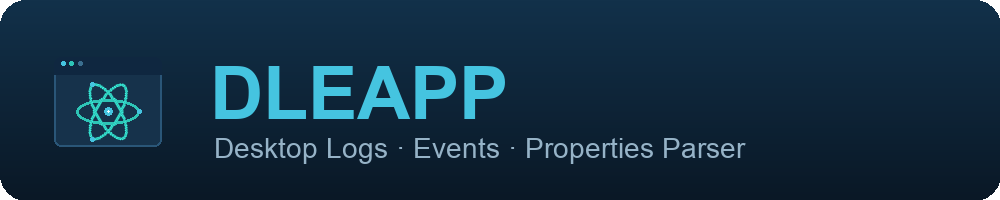
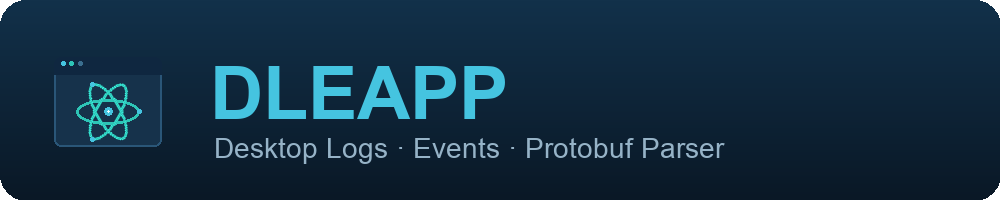
Fix name: Protobuf (not Properties) in the DLEAPP acronym
- DLEAPP = Desktop Logs Events And Protobuf Parser (matches RLEAPP's P word).
- Corrected dleapp.py, README, and scripts/report.py credits heading (the
  latter still read 'Returns ... Properties').
- Regenerated report banner tagline (Protobuf).
- Added admin/scripts/generate_logo.py (repo-relative) so branding is reproducible.

Changed region(s): [[0.558, 0.69, 0.744, 0.81]]

diff --git a/admin/scripts/generate_logo.py b/admin/scripts/generate_logo.py
@@ -1,0 +1,132 @@
+"""Generate DLEAPP logo assets (Electron atom inside a desktop window)."""
+import math, os
+from PIL import Image, ImageDraw, ImageFont
+
+import os as _os
+DL = _os.path.abspath(_os.path.join(_os.path.dirname(__file__), "..", ".."))
+
+NAVY_TOP = (18, 49, 74)     # #12314A
+NAVY_BOT = (10, 24, 38)     # #0A1826
+PANEL    = (22, 50, 75)     # #16324B
+PANEL_BD = (42, 86, 120)    # #2A5678
+TITLE    = (15, 39, 64)     # #0F2740
+TEAL     = (46, 196, 182)   # #2EC4B6
+CYAN     = (69, 196, 224)   # #45C4E0
+DOTMUTED = (58, 110, 142)   # #3A6E8E
+
+
+def _font(bold, size):
+    cands = ([
+        "/System/Library/Fonts/Supplemental/Arial Bold.ttf",
+        "/Library/Fonts/Arial Bold.ttf",
+        "/System/Library/Fonts/HelveticaNeue.ttc",
+    ] if bold else [
+        "/System/Library/Fonts/Supplemental/Arial.ttf",
+        "/System/Library/Fonts/Helvetica.ttc",
+    ])
+    for p in cands:
+        if os.path.exists(p):
+            try:
+                return ImageFont.truetype(p, size)
+            except Exception:
+                pass
+    return ImageFont.load_default()
+
+
+def _rounded_mask(size, radius):
+    m = Image.new("L", size, 0)
+    ImageDraw.Draw(m).rounded_rectangle([0, 0, size[0], size[1]], radius=radius, fill=255)
+    return m
+
+
+def _v_gradient(size, top, bot):
+    w, h = size
+    g = Image.new("RGB", (1, h))
+    for y in range(h):
+        t = y / max(1, h - 1)
+        g.putpixel((0, y), tuple(int(top[i] + (bot[i] - top[i]) * t) for i in range(3)))
+    return g.resize((w, h))
+
+
+def draw_mark(S, tile=True):
+    """Square mark at size S. If tile, draw the rounded navy background."""
+    k = S / 512.0
+    img = Image.new("RGBA", (S, S), (0, 0, 0, 0))
+    d = ImageDraw.Draw(img)
+
+    if tile:
+        grad = _v_gradient((S, S), NAVY_TOP, NAVY_BOT).convert("RGBA")
+        grad.putalpha(_rounded_mask((S, S), int(112 * k)))
+        img.alpha_composite(grad)
+
+    def R(x): return int(x * k)
+    # desktop window
+    win = [R(92), R(126), R(420), R(398)]
+    d.rounded_rectangle(win, radius=R(22), fill=PANEL, outline=PANEL_BD, width=max(2, R(3)))
+    # title bar (rounded top only)
+    d.rounded_rectangle([win[0], win[1], win[2], R(178)], radius=R(22),
+                        corners=(True, True, False, False), fill=TITLE)
+    d.rectangle([win[0], R(160), win[2], R(178)], fill=TITLE)
+    # window control dots
+    for i, c in enumerate((CYAN, TEAL, DOTMUTED)):
+        cx = R(120 + i * 26)
+        d.ellipse([cx - R(8), R(144) - R(8), cx + R(8), R(144) + R(8)], fill=c)
+
+    # electron atom, centered in the window body
+    cx, cy = 256 * k, 292 * k
+    rx, ry = 96 * k, 38 * k
+    lw = max(3, R(7))
+    for ang in (0, 60, 120):
+        layer = Image.new("RGBA", (S, S), (0, 0, 0, 0))
+        ImageDraw.Draw(layer).ellipse(
+            [cx - rx, cy - ry, cx + rx, cy + ry], outline=TEAL, width=lw)
+        layer = layer.rotate(ang, resample=Image.BICUBIC, center=(cx, cy))
+        img.alpha_composite(layer)
+    # electrons on the orbits + nucleus
+    er = R(9)
+    for ang in (0, 120, 240):
+        ex = cx + rx * math.cos(math.radians(ang))
+        ey = cy + rx * math.sin(math.radians(ang))
+        # rotate point to sit on the tilted orbit set
+        d.ellipse([ex - er, ey - er, ex + er, ey + er], fill=CYAN)
+    nr = R(15)
+    d.ellipse([cx - nr, cy - nr, cx + nr, cy + nr], fill=CYAN)
+    d.ellipse([cx - R(6), cy - R(6), cx + R(6), cy + R(6)], fill=(233, 252, 255))
+    return img
+
+
+def save(img, path):
+    os.makedirs(os.path.dirname(path), exist_ok=True)
+    img.save(path)
+    print("wrote", path, img.size)
+
+
+# --- square marks ---
+save(draw_mark(512), f"{DL}/assets/DLEAPP_logo.png")
+save(draw_mark(256), f"{DL}/assets/icon.png")
+save(draw_mark(256), f"{DL}/scripts/_elements/logo.png")
+
+# --- banner (mark + wordmark + tagline) ---
+BW, BH = 1000, 200
+banner = Image.new("RGBA", (BW, BH), (0, 0, 0, 0))
+bg = _v_gradient((BW, BH), NAVY_TOP, NAVY_BOT).convert("RGBA")
+bg.putalpha(_rounded_mask((BW, BH), 26))
+banner.alpha_composite(bg)
+mark = draw_mark(168, tile=False)
+banner.alpha_composite(mark, (24, 16))
+bd = ImageDraw.Draw(banner)
+bd.text((210, 52), "DLEAPP", font=_font(True, 74), fill=CYAN)
+bd.text((214, 132), "Desktop Logs · Events · Protobuf Parser",
+        font=_font(False, 28), fill=(150, 179, 199))
+save(banner, f"{DL}/scripts/_elements/DLEAPP_banner.png")
+
+# --- small family badge (GUI, resized to 110x51) ---
+badge = Image.new("RGBA", (240, 112), (0, 0, 0, 0))
+bbg = _v_gradient((240, 112), NAVY_TOP, NAVY_BOT).convert("RGBA")
+bbg.putalpha(_rounded_mask((240, 112), 18))
+badge.alpha_composite(bbg)
+badge.alpha_composite(draw_mark(96, tile=False), (8, 8))
+ImageDraw.Draw(badge).text((104, 40), "DLEAPP", font=_font(True, 34), fill=CYAN)
+save(badge, f"{DL}/assets/leapps_r_logo.png")
+
+print("done")

diff --git a/dleapp.py b/dleapp.py
@@ -159,7 +159,7 @@ def create_casedata(path):
     return
 
 def main():
-    parser = argparse.ArgumentParser(description='DLEAPP: Desktop, Logs, Events, and Properties Parser.')
+    parser = argparse.ArgumentParser(description='DLEAPP: Desktop, Logs, Events, and Protobuf Parser.')
     parser.add_argument('-t', choices=['fs', 'tar', 'zip', 'gz'], required=False, action="store",
                         help=("Specify the input type. "
                               "'fs' for a folder containing extracted files with normal paths and names, "
@@ -346,8 +346,8 @@ def crunch_artifacts(
     logfunc('Processing started. Please wait. This may take a few minutes...')
 
     logfunc('\n--------------------------------------------------------------------------------------')
-    logfunc(f'DLEAPP v{dleapp_version}: DLEAPP Desktop, Logs, Events, and Properties Parser')
-    logfunc('Objective: Triage desktop application artifacts (logs, events, and properties).')
+    logfunc(f'DLEAPP v{dleapp_version}: DLEAPP Desktop, Logs, Events, and Protobuf Parser')
+    logfunc('Objective: Triage desktop application artifacts (logs, events, and protobuf).')
     logfunc('By: Alexis Brignoni | @AlexisBrignoni | abrignoni.com')
     logfunc('By: Yogesh Khatri   | @SwiftForensics | swiftforensics.com\n')
     

diff --git a/scripts/report.py b/scripts/report.py
@@ -231,7 +231,7 @@ def create_index_html(reportfolderbase, time_in_secs, time_hms, extraction_type,
     # WRITE INDEX.HTML LAST
     filename = 'index.html'
     page_title = 'DLEAPP Report'
-    body_heading = 'Returns Logs Events And Properties Parser'
+    body_heading = 'Desktop Logs Events And Protobuf Parser'
     body_description = 'DLEAPP is an open source project that aims to parse service provider returns '\
         'for the purpose of triage analysis.'
     active_nav_list_data = mark_item_active(nav_list_data, filename) + nav_bar_script

diff --git a/README.md b/README.md
@@ -1,8 +1,8 @@
 ![DLEAPP](https://github.com/abrignoni/DLEAPP/blob/main/assets/DLEAPP_logo.png)
 
-# Desktop Logs Events And Properties Parser
+# Desktop Logs Events And Protobuf Parser
 
-**DLEAPP** parses artifacts left behind by **desktop applications** — the logs, events, and properties of Electron/Chromium-based desktop apps: IndexedDB/LevelDB stores, Local Storage, service-worker and HTTP caches, cookies, and application logs. It is a member of the LEAPP family, built on the RLEAPP framework.
+**DLEAPP** parses artifacts left behind by **desktop applications** — the logs, events, and stored data of Electron/Chromium-based desktop apps: IndexedDB/LevelDB stores (including protobuf-encoded values), Local Storage, service-worker and HTTP caches, cookies, and application logs. It is a member of the LEAPP family, built on the RLEAPP framework.
 
 The initial release ships a full **Wire** (app.wire.com desktop) parser — accounts, devices, conversations, messages, calls, attachments, cached assets, and media recovered by decrypting the app's cached asset blobs with the per-asset keys. More desktop-application parsers will be added over time.
 
@@ -162,4 +162,4 @@ def get_cool_data1(files_found, report_folder, seeker, wrap_text):
 
 This tool is the result of a collaborative effort of many people in the DFIR community.
 
-DLEAPP logo courtesy of Derek Eiri.
+DLEAPP is built on the RLEAPP framework by Alexis Brignoni and contributors.
